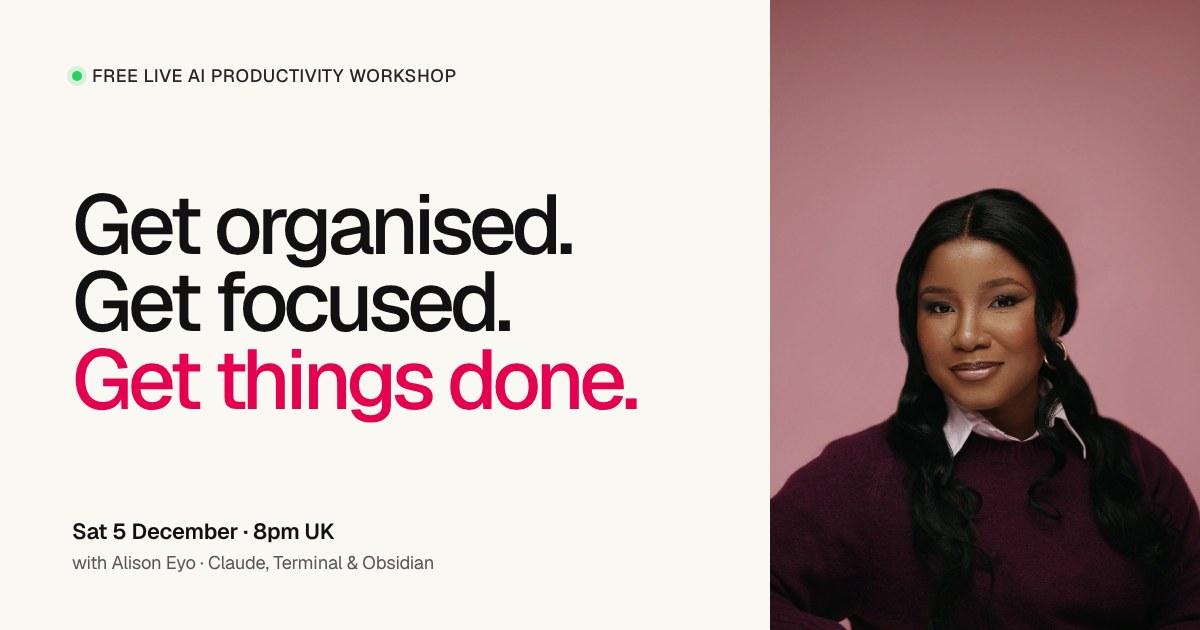
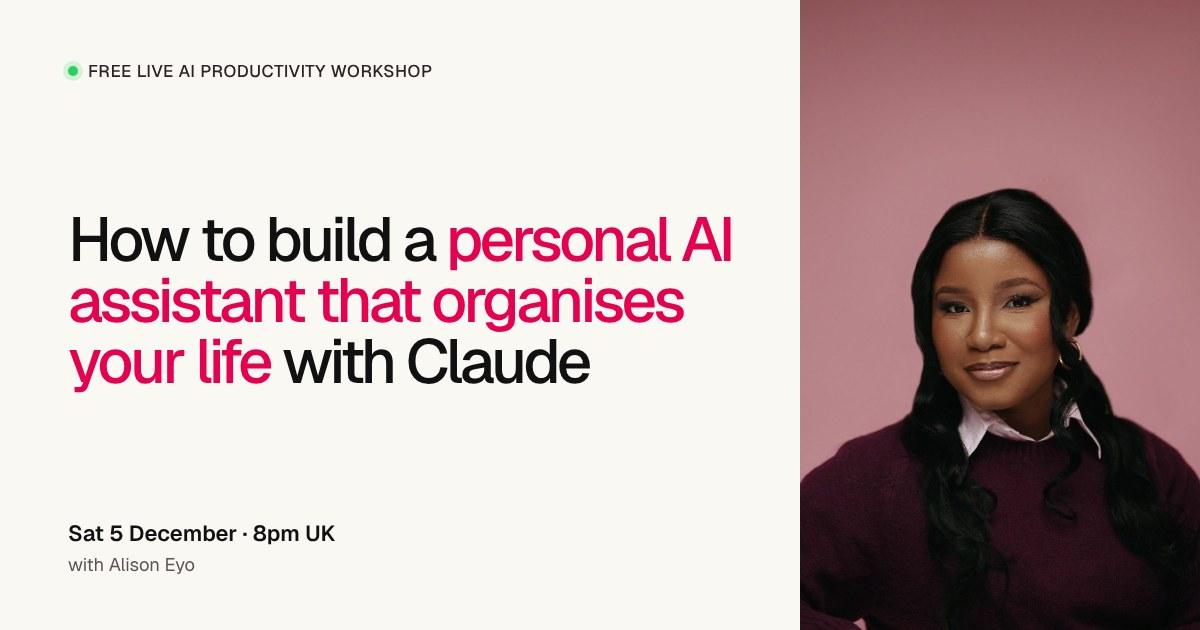
/ai: headline in the 'how to + outcome + tool' format
Highlights the outcome people want (a personal AI assistant that organises
their life), with a 'so you can' subheadline. Link preview updated to match.

Claude-Session: https://claude.ai/code/session_01DDHP7Lz6RAsxayWih4DnJ3

diff --git a/ai/index.html b/ai/index.html
@@ -3,7 +3,7 @@
 <head>
 <meta charset="utf-8">
 <meta name="viewport" content="width=device-width, initial-scale=1">
-<title>The AI Productivity Workshop · Free Live Workshop with Alison Eyo</title>
+<title>How to Build a Personal AI Assistant That Organises Your Life · Free Workshop</title>
 <meta name="description" content="A free live workshop with Alison Eyo. Build your own AI-powered productivity system with Claude, Terminal and Obsidian to organise your work and ideas and make progress on what matters.">
 <link rel="canonical" href="https://www.thealisoneyo.com/ai/">
 <meta name="robots" content="index, follow, max-image-preview:large">
@@ -15,7 +15,7 @@
 <meta property="og:locale" content="en_GB">
 <meta property="og:url" content="https://www.thealisoneyo.com/ai/">
 <meta property="og:title" content="The AI Productivity Workshop · Free live workshop">
-<meta property="og:description" content="Get organised. Get focused. Get things done. Build your own AI productivity system with Claude, Terminal and Obsidian.">
+<meta property="og:description" content="How to build a personal AI assistant that organises your life, with Claude, Terminal and Obsidian. Free live workshop with Alison Eyo.">
 <meta property="og:image" content="https://www.thealisoneyo.com/ai/assets/og-ai.jpg">
 <meta property="og:image:width" content="1200">
 <meta property="og:image:height" content="630">
@@ -65,8 +65,8 @@ fbq('track', 'PageView');
 
     <div id="top" class="hero-body">
       <p class="eyebrow hero-eyebrow" data-reveal><span class="eyebrow-dot eyebrow-dot-green"></span>Free live AI productivity workshop</p>
-      <h1 class="hero-title" data-reveal>Get organised.<br>Get focused.<br><span class="pink">Get things done.</span></h1>
-      <p class="hero-copy" data-reveal data-delay="120">Build your own AI powered productivity system to manage your work, organise your ideas and make progress on the things that matter.</p>
+      <h1 class="hero-title" data-reveal>How to build a <span class="pink">personal AI assistant that organises your life</span> with Claude</h1>
+      <p class="hero-copy" data-reveal data-delay="120">So you can stop juggling everything, focus on what matters and actually do the things you want to do with your life.</p>
 
       <div class="when" data-reveal data-delay="180">
         <p class="when-line" data-event-line>Saturday 5 December · 8pm GMT</p>

diff --git a/ai/styles.css b/ai/styles.css
@@ -204,14 +204,17 @@ button { font: inherit; }
 .hero-title {
   margin: 0;
   font-weight: 500;
-  font-size: clamp(50px,8.6vw,140px);
-  line-height: .9;
-  letter-spacing: -.06em;
+  max-width: 15ch;
+  font-size: clamp(44px,6.6vw,104px);
+  line-height: .94;
+  letter-spacing: -.055em;
+  text-wrap: balance;
 }
 .hero-copy {
-  max-width: 600px;
-  margin: clamp(28px,3vw,40px) 0 0;
+  max-width: 640px;
+  margin: clamp(24px,2.6vw,34px) 0 0;
   font-size: clamp(17px,1.45vw,21px);
+  font-style: italic;
   line-height: 1.45;
   letter-spacing: -.015em;
   text-wrap: pretty;
@@ -522,7 +525,7 @@ button { font: inherit; }
   .nav-cta { display: none; }
   .hero-body { padding-top: 56px; padding-bottom: 72px; }
   .hero-eyebrow { font-size: 12px; }
-  .hero-title { font-size: clamp(40px,12.2vw,58px); }
+  .hero-title { font-size: clamp(36px,10.4vw,50px); }
   .countdown { gap: 6px; width: 100%; }
   .countdown div { flex: 1; min-width: 0; border-radius: 14px; padding: 12px 4px 9px; }
   .countdown span { font-size: 28px; }
